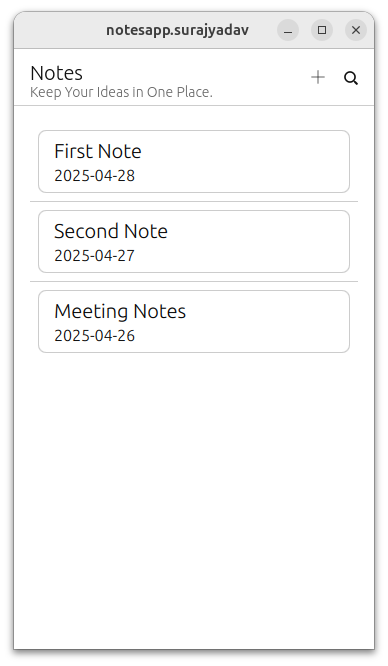
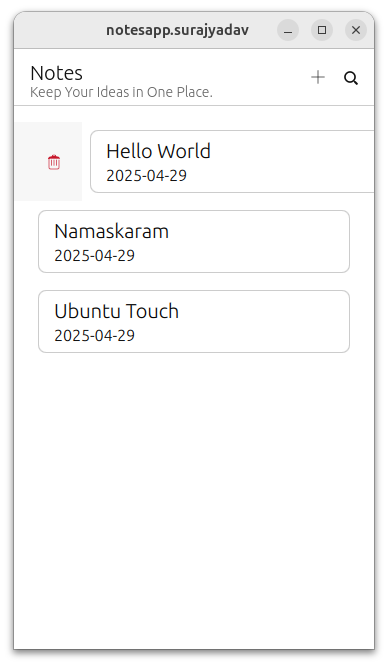
Adding Logbook Updates

Changed region(s): [[0.1237, 0.1802, 0.5567, 0.3003], [0.1237, 0.4505, 0.4948, 0.5105], [0.1237, 0.3303, 0.433, 0.3904]]

diff --git a/docs/logbook.md b/docs/logbook.md
@@ -250,3 +250,185 @@
      ![notes1.3](screenshots/notes1.3.png)
     
     notes1.3
+
+
+
+
+    # Day 2
+
+---
+
+Well starting the Day with , Some research on Ubuntu Touch App Development. Browsing through documentation and community Forums and looking at Developers advice. 
+
+<aside>
+💡
+
+Do Checkout the Clickable Documentation [here](https://clickable-ut.dev/en/latest/index.html)
+
+</aside>
+
+I have been preparing a Time-Line for the app , and I think i should be able to complete this in less than a month. Well the Developers in the forum says it can take up-to 2 to 3 months. But I am a quick learner and I should be able to do it.
+
+> Task 1
+> 
+
+> Now Lets talk about our app, Now I want to add UI when we click on the Add action in the Page header a new page should open and we should be able to add our Notes from there in the APP.
+> 
+
+<aside>
+💡
+
+New learning of the day, do not UN-comment the `QtQuick.Controls 2.2`
+
+</aside>
+
+To add a new task I have decided to add a pop-up that will have a `TextArea` where we can add our notes . Just for simplicity sake we will have two buttons , `Cancel` and `Save`. Cancel closes that pop-up and Save `appends` that Note to our `ListView` . This a temporary UI , we will be enhancing this in Future with Complexity of our Project increases.  
+
+```jsx
+
+    Component {
+        id: noteDialogComponent
+
+        Dialog {
+            id: noteDialog
+            title: i18n.tr("Add New Action")
+            modal: true
+
+            ColumnLayout {
+                width: parent.width
+                spacing: units.gu(1)
+
+                Label {
+                    text: i18n.tr("Enter your note:")
+                }
+
+                TextArea {
+                    id: noteTextArea
+                    Layout.fillWidth: true
+                    Layout.preferredHeight: units.gu(15)
+                    placeholderText: i18n.tr("Type your note here...")
+                    
+                }
+
+                RowLayout {
+                    Layout.fillWidth: true
+                    Layout.topMargin: units.gu(1)
+                    spacing: units.gu(1)
+
+                    Button {
+                        Layout.fillWidth: true
+                        text: i18n.tr("Cancel")
+                        onClicked: {
+                            PopupUtils.close(noteDialog);
+                        }
+                    }
+
+                    Button {
+                        Layout.fillWidth: true
+                        text: i18n.tr("Save")
+                        color: theme.palette.normal.positive
+                        onClicked: {
+                            if (noteTextArea.text.trim() !== "") {
+                                notesModel.append({
+                                    title: noteTextArea.text.trim(),
+                                    createdAt: Qt.formatDateTime(new Date(), "yyyy-MM-dd")
+                                });
+                                
+
+                                PopupUtils.close(noteDialog);
+                            }
+                        }
+                    }
+                }
+            }
+        }
+    }
+```
+
+ 
+
+  ![notes2.1](screenshots/notes2.1.png)
+
+> Task 2
+> 
+
+Now we have the Functionality to Add our Notes(Well Temporarily One) To our `ListView` and We want to Delete the Note. So how do we do it ?
+
+We can achieve this by wrapping the `Rectangle` with a `ListItem` in the `delegate` section of `ListView.`
+
+Replace the `delegate` section with given code:
+
+```jsx
+
+            delegate: ListItem {
+                id: noteItem
+                height: units.gu(10)
+
+                leadingActions: ListItemActions {
+                    actions: [
+                        Action {
+                            iconName: "delete"
+                            onTriggered: {
+                                var rowid = notesModel.get(index).rowid;
+                                notesModel.remove(index);
+                            }
+                        }
+                    ]
+                }
+
+                Rectangle {
+                    anchors.fill: parent
+                    radius: units.gu(1)
+                    border.color: "#cccccc"
+                    border.width: 1
+                  
+                    anchors.margins: units.gu(1)
+
+                    Row {
+                        spacing: units.gu(2)
+                        anchors.fill: parent
+                        anchors.margins: units.gu(2)
+
+                        Column {
+                            spacing: units.gu(0.5)
+                            anchors.verticalCenter: parent.verticalCenter
+
+                            Text {
+                                text: model.title
+                                font.pixelSize: units.gu(2.5)
+                              //  font.bold: true
+                            }
+
+                            Text {
+                                text: model.createdAt
+                                font.pixelSize: units.gu(2)
+                            }
+                        }
+                    }
+
+                    MouseArea {
+                        anchors.fill: parent
+                        onClicked: {
+                            console.log("Clicked on note:", model.title);
+                            // Navigate to note detail
+                        }
+                    }
+                }
+            }
+```
+
+   ![notes2.2](screenshots/notes2.2.png)
+
+This Feature adds a `delete` button when you slide the `ListView` Item from left to right
+
+Then Also Resolved some Inconsistency in the UI. Learning `QML` through documentation.
+
+Next Features i should add :
+
+- [ ]  Adding sqlite3
+- [ ]  Adding a Edit Button
+- [ ]  Improve Model Of Notes , Add a Content Section
+- [ ]  Improve the Notes Add Section
+- [ ]  Test For Convergence
+- [ ]  Test For Dark-Mode Compatibility
+- [ ]  Refactor code for Modularity
